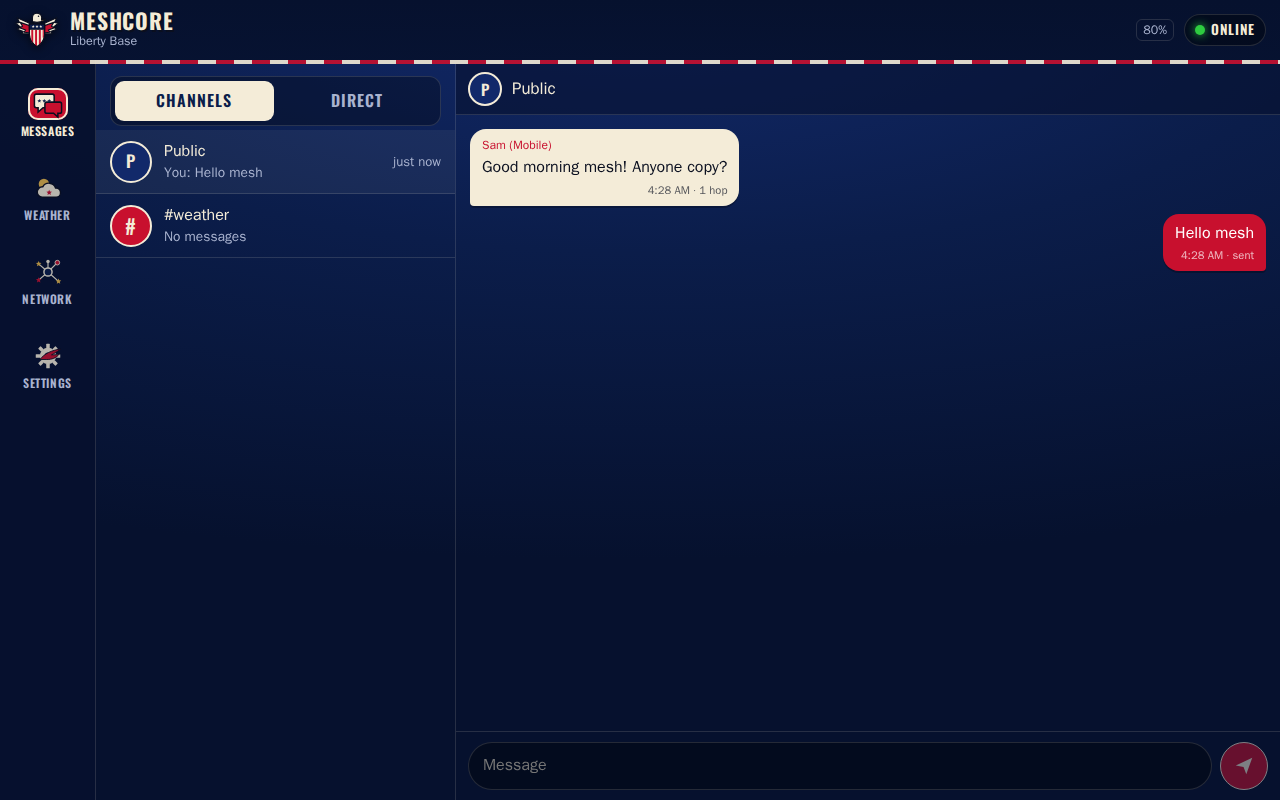
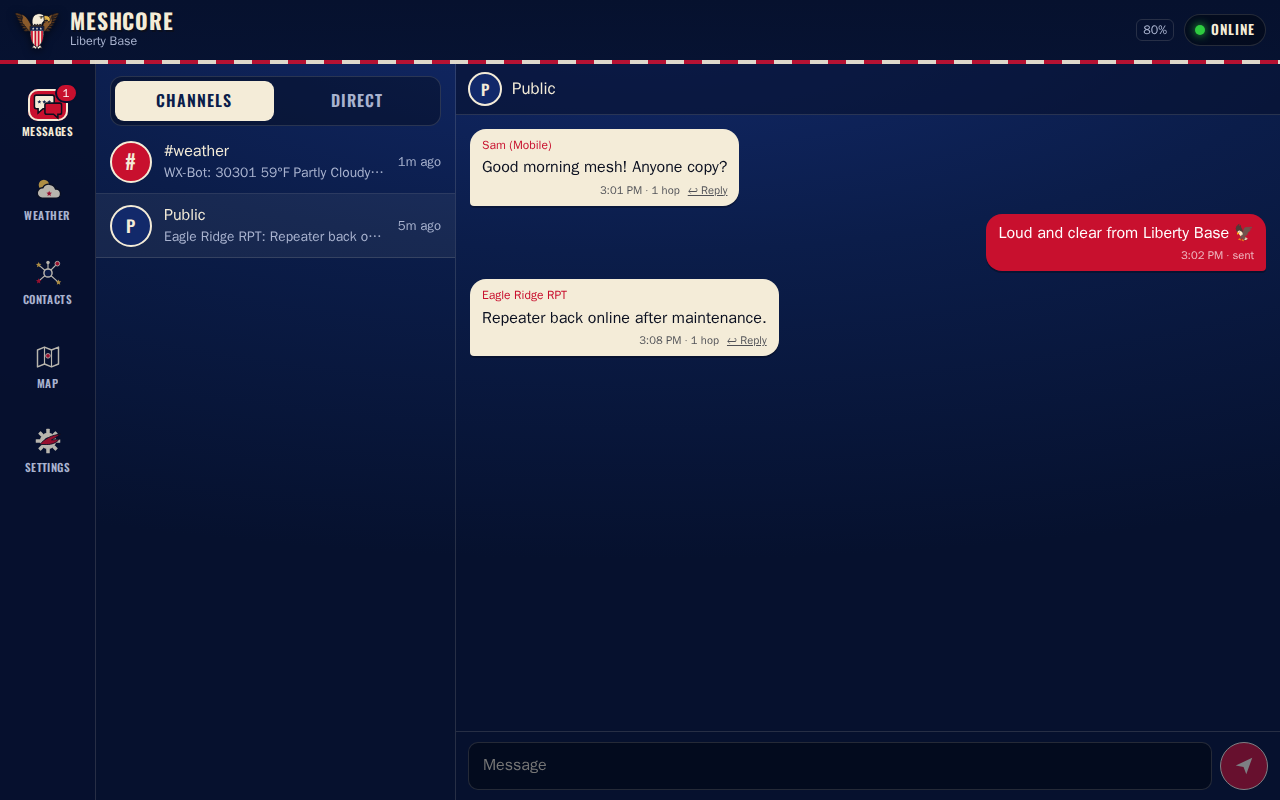
Refresh README screenshots and add screenshot script
Replace outdated screenshots (old 4-tab layout, Network tab, demo mode) with
current UI captures, document the Contacts tab and Reply, and add
`npm run screenshots` which captures the app against a mock radio.

diff --git a/scripts/screenshots/mockRadio.ts b/scripts/screenshots/mockRadio.ts
@@ -1,0 +1,37 @@
+// Stand-in for src/lib/radio.ts used only by `npm run screenshots`: a fake radio with sample data.
+import type { Channel, Contact, Radio, RadioEvent } from '../../src/lib/types';
+
+const now = () => Math.floor(Date.now() / 1000);
+const key = (seed: string) => seed.repeat(64).slice(0, 64);
+
+const contacts = (): Contact[] => [
+  { publicKey: key('a1'), name: 'WX-Bot', kind: 'chat', lastAdvert: now() - 60, hops: 1, lat: 33.762, lon: -84.39 },
+  { publicKey: key('b2'), name: 'Eagle Ridge RPT', kind: 'repeater', lastAdvert: now() - 120, hops: 1, lat: 33.8, lon: -84.33 },
+  { publicKey: key('c3'), name: 'Sam (Mobile)', kind: 'chat', lastAdvert: now() - 900, hops: 2, lat: 33.73, lon: -84.42 },
+  { publicKey: key('d4'), name: 'Old Glory Room', kind: 'room', lastAdvert: now() - 7200, hops: null },
+];
+
+const channels: Channel[] = [{ idx: 0, name: 'Public' }, { idx: 1, name: '#weather' }];
+
+export const supportsBluetooth = () => true;
+export const supportsSerial = () => true;
+
+export async function connectRadio(transport: 'ble' | 'serial'): Promise<Radio> {
+  const listeners = new Set<(e: RadioEvent) => void>();
+  const ok = async () => undefined;
+  return {
+    transport,
+    on: (l) => (listeners.add(l), () => listeners.delete(l)),
+    getSelfInfo: async () => ({
+      name: 'Liberty Base', publicKey: key('e5'), txPower: 22, maxTxPower: 22,
+      radioFreq: 910.525, radioBw: 62.5, radioSf: 7, radioCr: 5, lat: 33.749, lon: -84.388,
+    }),
+    getDeviceInfo: async () => ({ firmware: 'v1.9.0 (05-Sep-2026)', model: 'Heltec V3' }),
+    getBatteryMv: async () => 3980,
+    getContacts: async () => contacts(),
+    getChannels: async () => channels,
+    ensureHashtagChannel: async (name) => channels.find((c) => c.name === name) ?? channels[1],
+    sendDirect: ok, sendChannel: ok, sendAdvert: ok, addContact: ok, removeContact: ok, shareContact: ok,
+    exportContact: async () => '', importContact: ok, setManualAdd: ok, syncClock: ok, drainMessages: ok, close: ok,
+  };
+}

diff --git a/scripts/screenshots/vite.config.ts b/scripts/screenshots/vite.config.ts
@@ -1,0 +1,19 @@
+import { fileURLToPath } from 'node:url';
+import { defineConfig, mergeConfig } from 'vite';
+import base from '../../vite.config';
+
+const radio = fileURLToPath(new URL('../../src/lib/radio.ts', import.meta.url));
+const mock = fileURLToPath(new URL('./mockRadio.ts', import.meta.url));
+
+export default mergeConfig(base, defineConfig({
+  root: fileURLToPath(new URL('../..', import.meta.url)),
+  plugins: [{
+    name: 'mock-radio',
+    enforce: 'pre',
+    async resolveId(source, importer, options) {
+      if (!importer || importer === mock) return null;
+      const resolved = await this.resolve(source, importer, { ...options, skipSelf: true });
+      return resolved?.id === radio ? mock : null;
+    },
+  }],
+}));

diff --git a/README.md b/README.md
@@ -11,18 +11,24 @@ Click the link above. The app runs in your web browser. There is nothing to down
 A stars-and-stripes **MeshCore companion-radio client** with a built-in **Weather** tab. Pair your radio and chat off-grid over LoRa, then ask your mesh weather bot for a forecast with one tap.
 
 - 📡 **Connect your radio** — over Bluetooth or USB
-- 💬 **Messages** — channels and direct messages, unread badges, and delivery status
+- 💬 **Messages** — channels and direct messages, unread badges, delivery status, and one-tap **Reply** to mention a sender
 - 🌦 **Weather** — sends your ZIP code (or any text your bot responds to) to your weather bot's hashtag channel and shows the reply as a card
-- 🗺 **Network** — see nearby nodes (companions, repeaters, rooms), send adverts, and tap to DM
+- 👥 **Contacts** — search, filter (users, repeaters, rooms, ★ favorites), and sort your contacts; approve newly heard nodes; send adverts; tap to DM, long-press for more options
 - 🪪 **Contact cards** — share and add contacts with the MeshCore app's link format: `meshcore://contact/add?name=…&public_key=…&type=1`
 - 📍 **Map** — see contacts that share a GPS position on an OpenStreetMap map (tiles are fetched from OpenStreetMap and cached for offline use; this is the only network request the app makes)
 - ⚙ **Settings** — weather settings and device info (node name, battery, firmware, radio settings)
 - 📶 **Works offline** — install it once and it keeps working with no connection
 - 🔓 **No account, no server** — your messages and settings never leave your device
 
-| Connect | Weather | Chat | Network |
-| --- | --- | --- | --- |
-| ![Connect](docs/screenshots/connect.png) | ![Weather](docs/screenshots/weather.png) | ![Thread](docs/screenshots/thread.png) | ![Network](docs/screenshots/network.png) |
+## Screenshots
+
+| Setup | Connect | Weather |
+| :---: | :---: | :---: |
+| ![First-run setup asking for a ZIP code or location](docs/screenshots/onboarding-location.png) | ![Connect your radio over Bluetooth or USB](docs/screenshots/connect.png) | ![Weather tab showing the latest bot report](docs/screenshots/weather.png) |
+| **Chat** | **Contacts** | **Settings** |
+| ![Public channel conversation](docs/screenshots/thread.png) | ![Contacts list with filters and sort](docs/screenshots/contacts.png) | ![Settings with weather and device info](docs/screenshots/settings.png) |
+
+On wider screens (900 px and up) the app switches to a side rail and a two-pane Messages view:
 
 ![Desktop two-pane layout](docs/screenshots/desktop.png)
 
@@ -89,6 +95,7 @@ npm test               # unit tests (Vitest)
 npm run test:browser   # end-to-end tests at phone sizes (Playwright)
 npm run build          # type-check + production build to dist/
 npm run icons          # regenerate PNG icons from public/icons/*.svg
+npm run screenshots    # regenerate docs/screenshots/*.png with a mock radio and sample data
 ```
 
 Planning notes, including the Elephant & Goldfish plan, are in [docs/PLAN.md](docs/PLAN.md).
